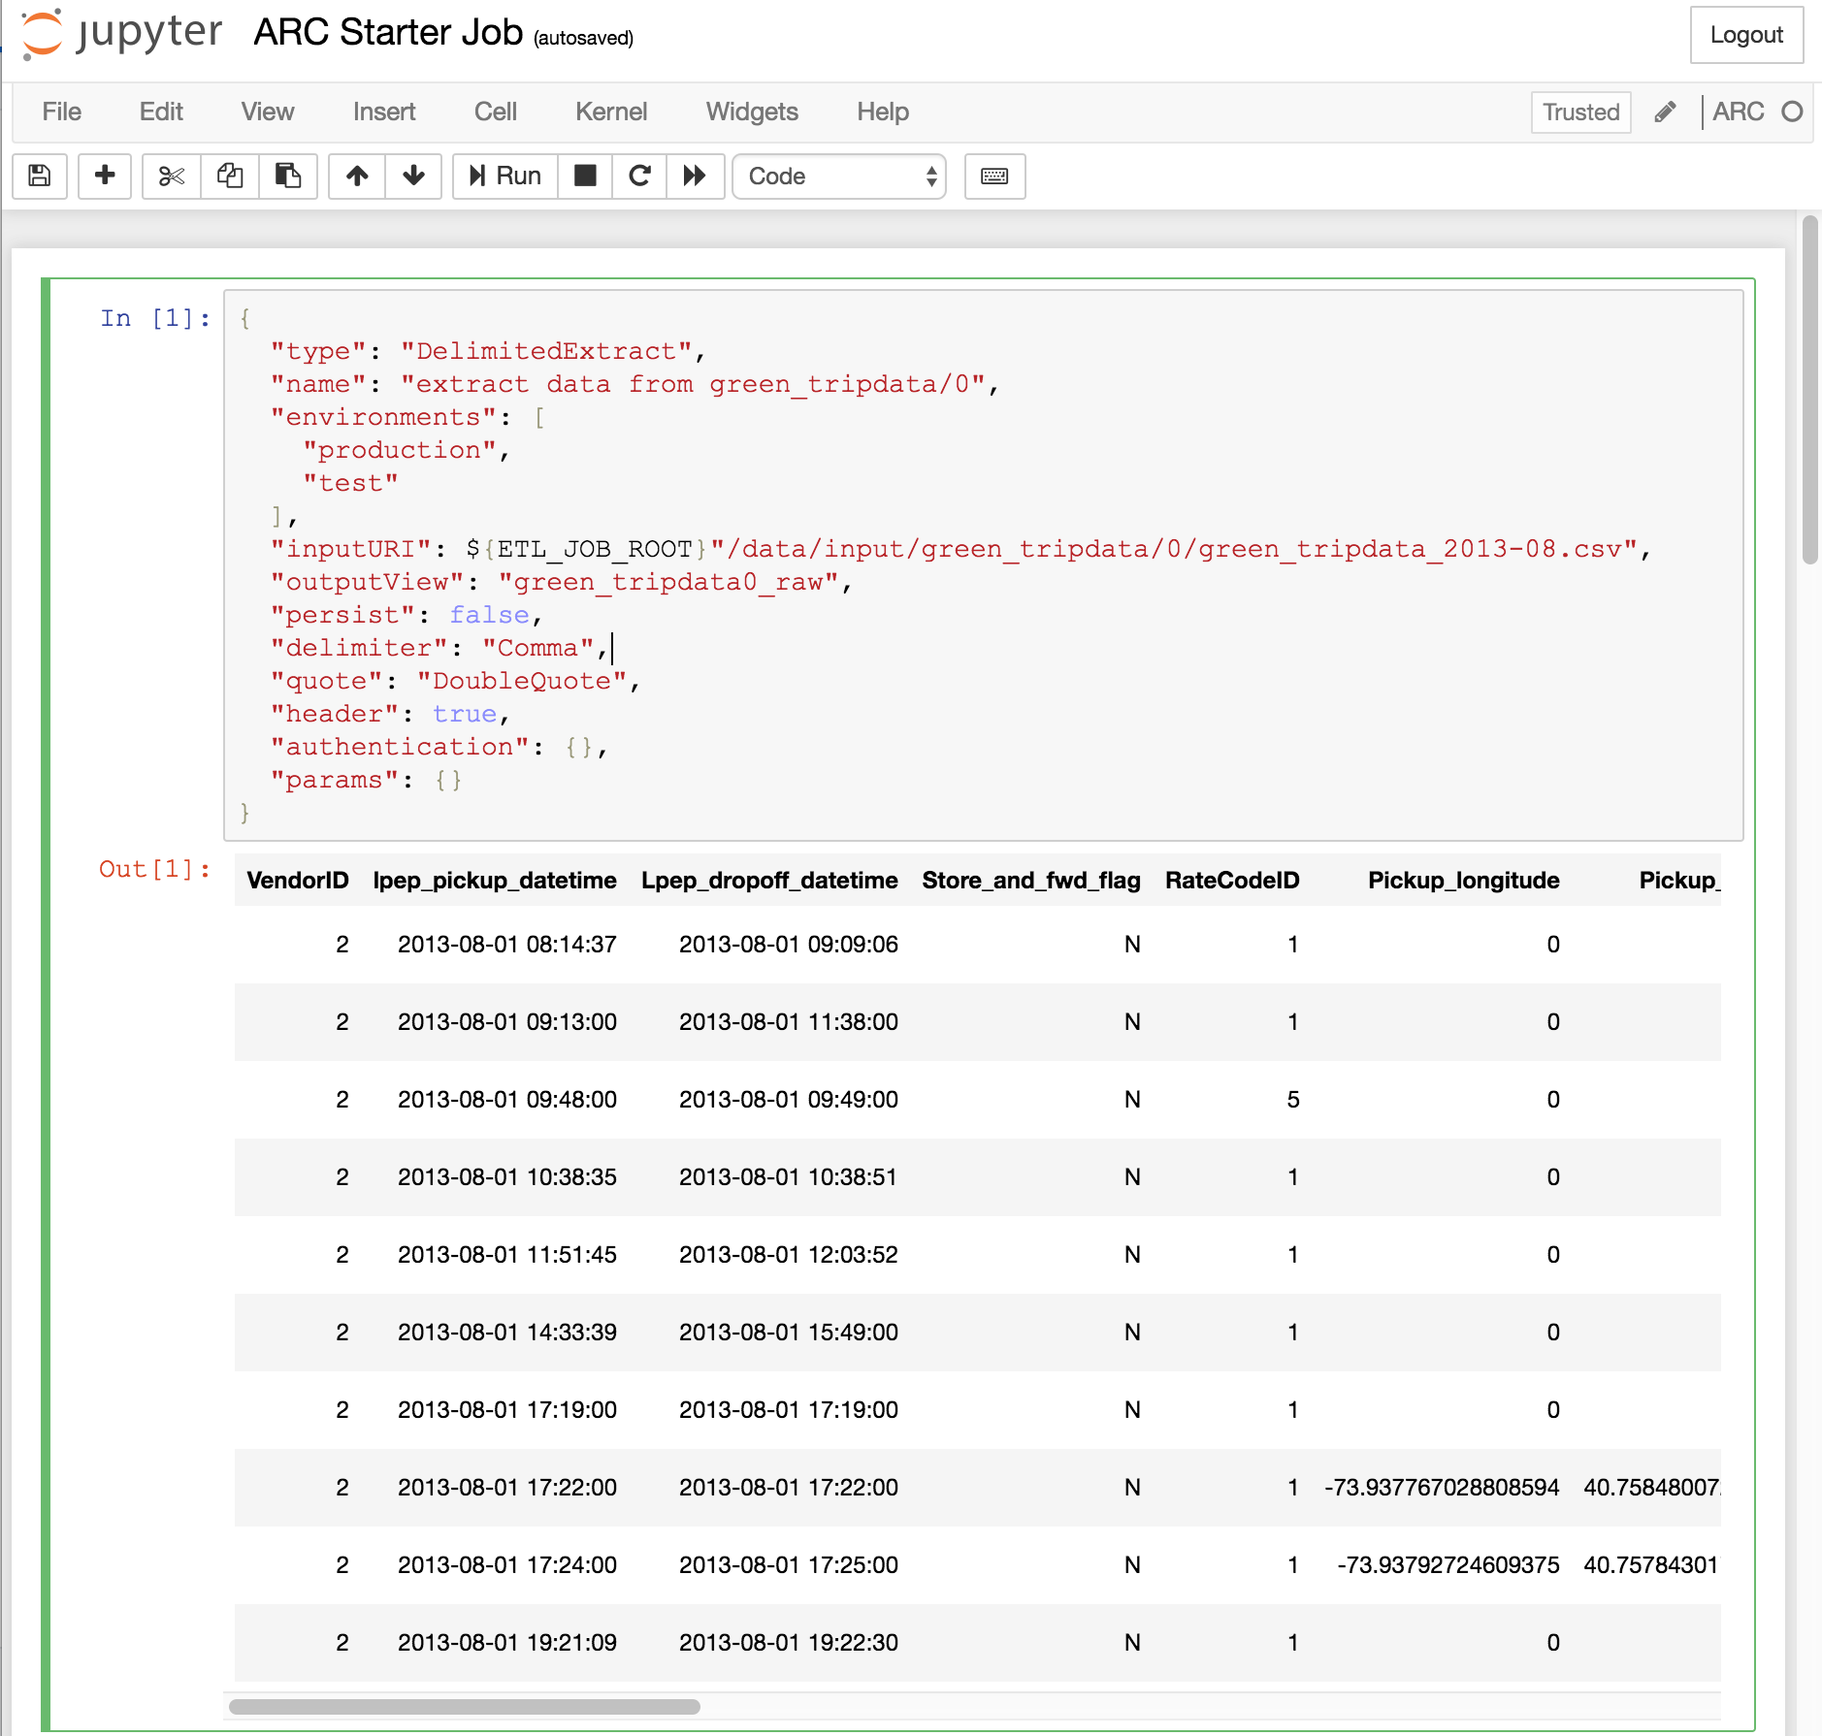
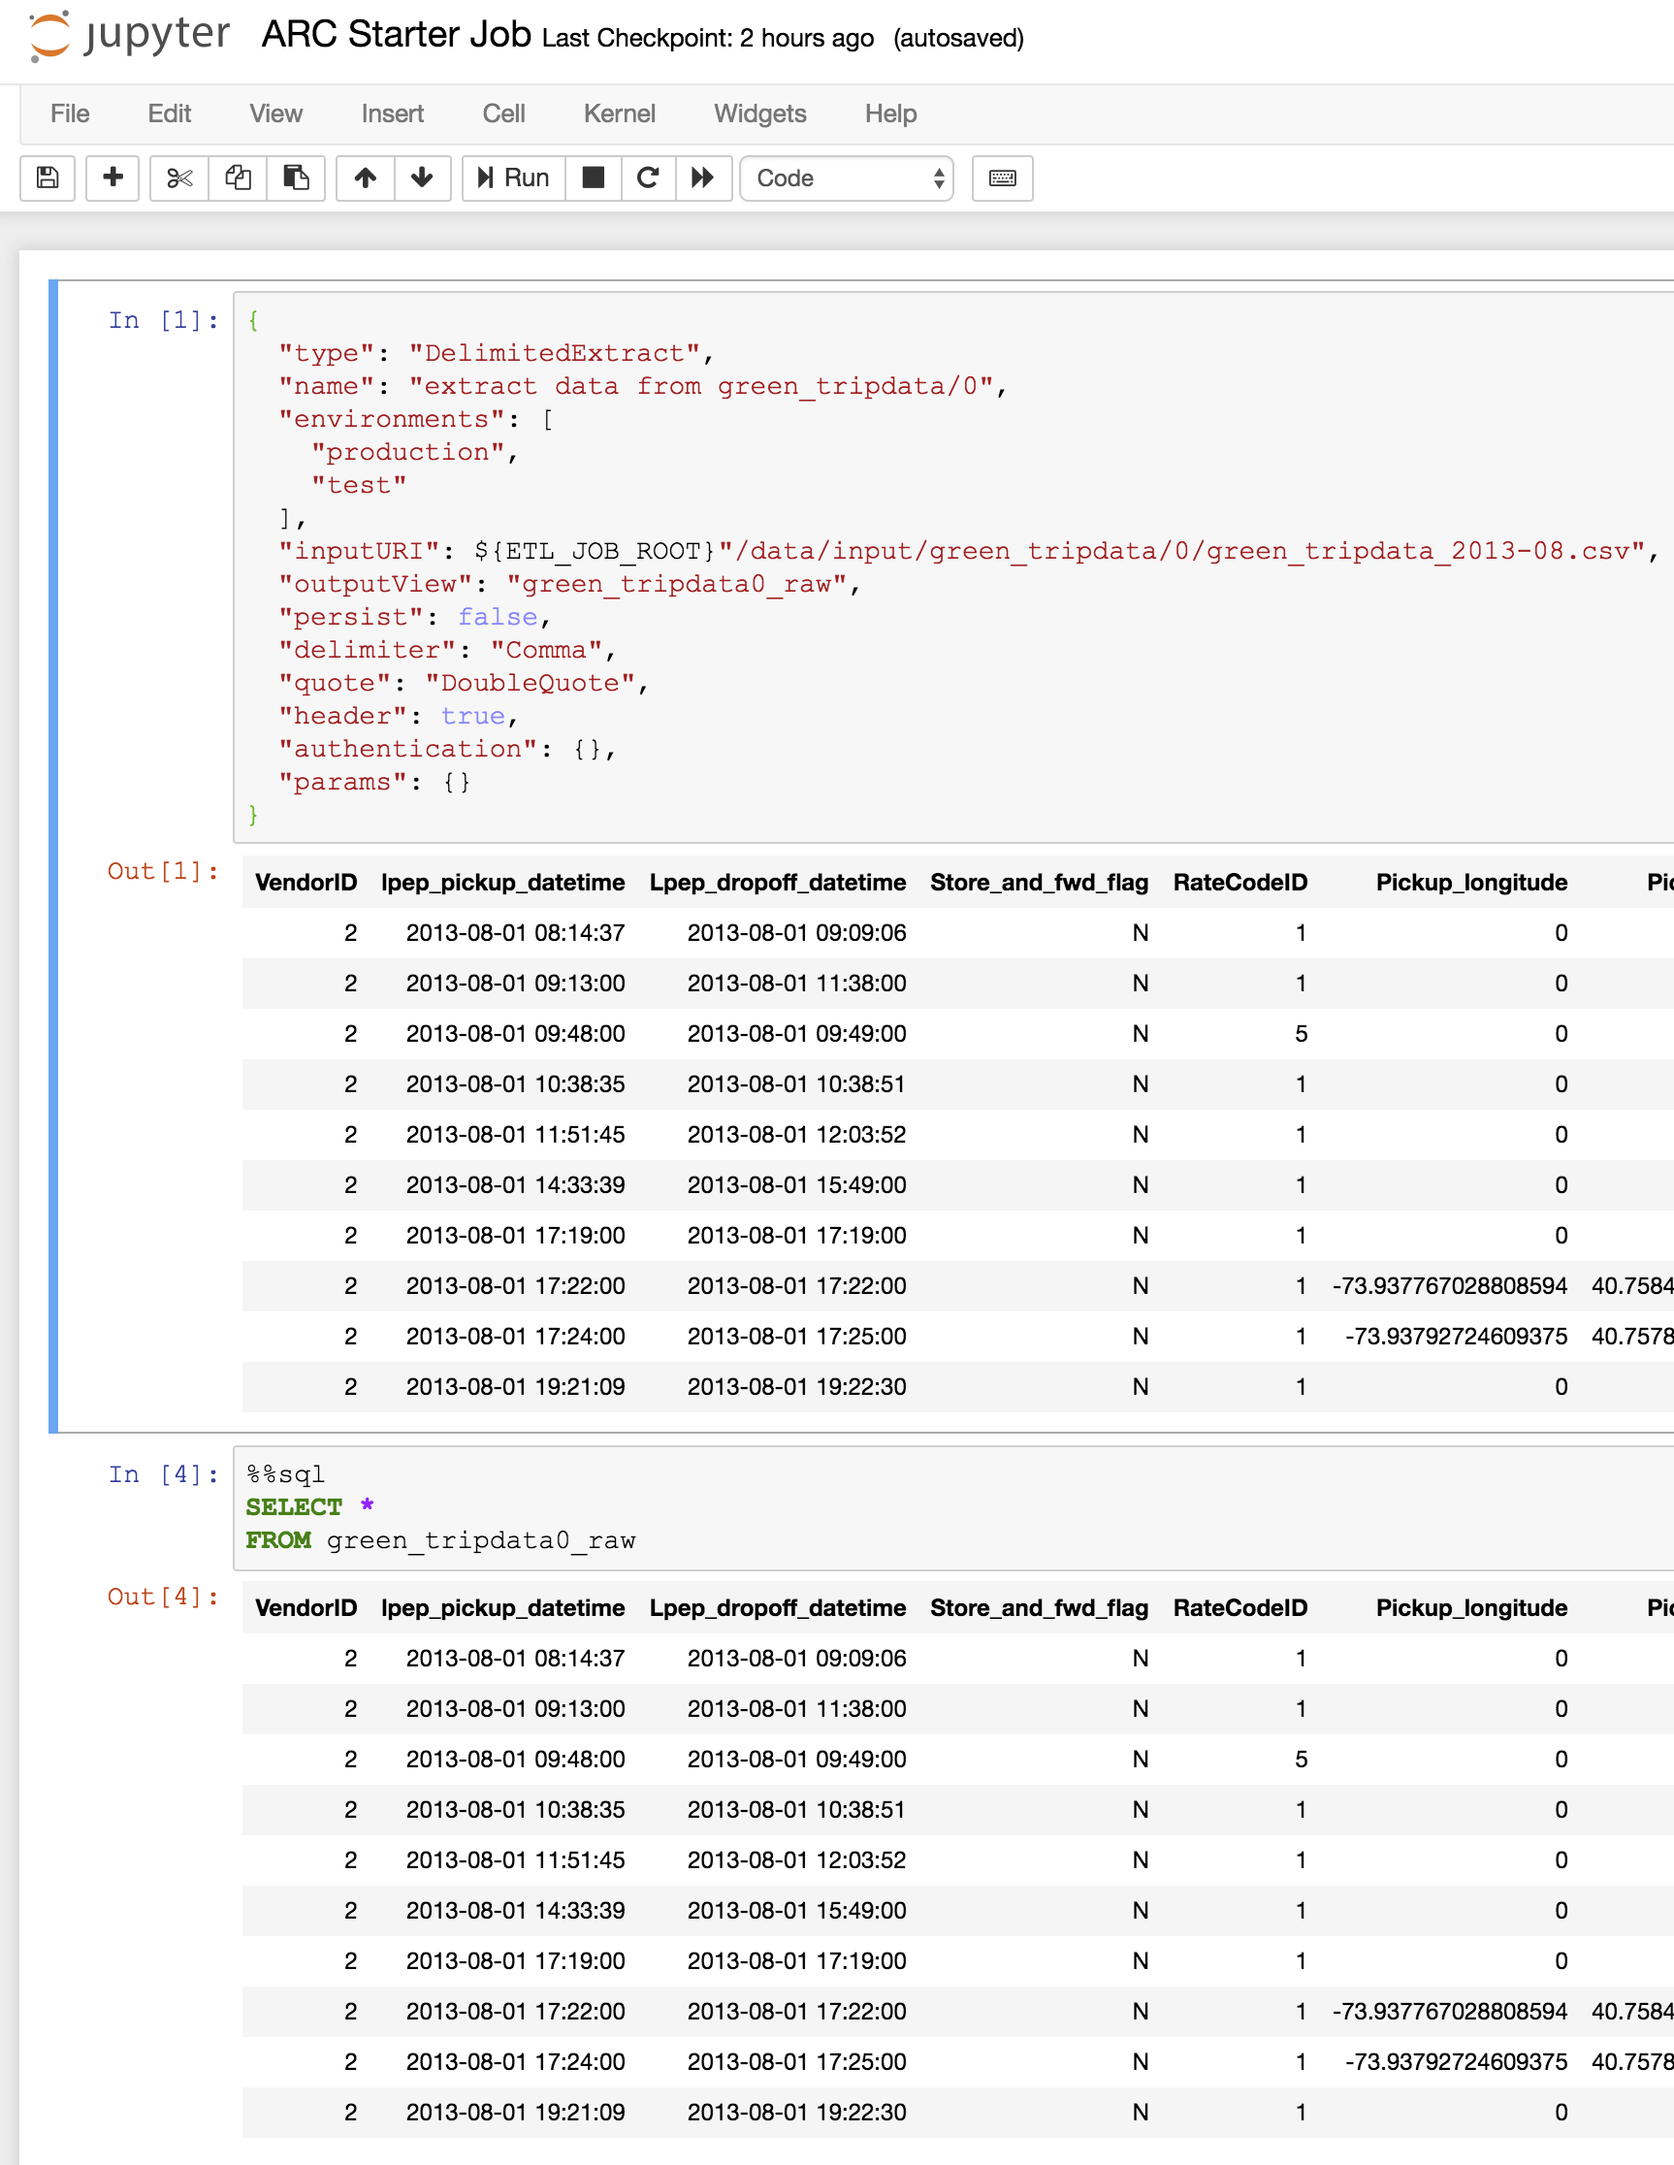
update readme

diff --git a/README.md b/README.md
@@ -22,6 +22,16 @@ to
 -e "SPARK_OPTS='--driver-memory=8G'" \
 ```
 
+## How to execute
+
+By default everything will be executed as an Arc stage but if needed SQL can be executed directly which can speed development:
+
+```sql
+%%sql
+SELECT * 
+FROM green_tripdata0_raw
+```
+
 ## Screenshot
 
 ![ARC in Jupyter Notebooks](./.img/screenshot.png)
